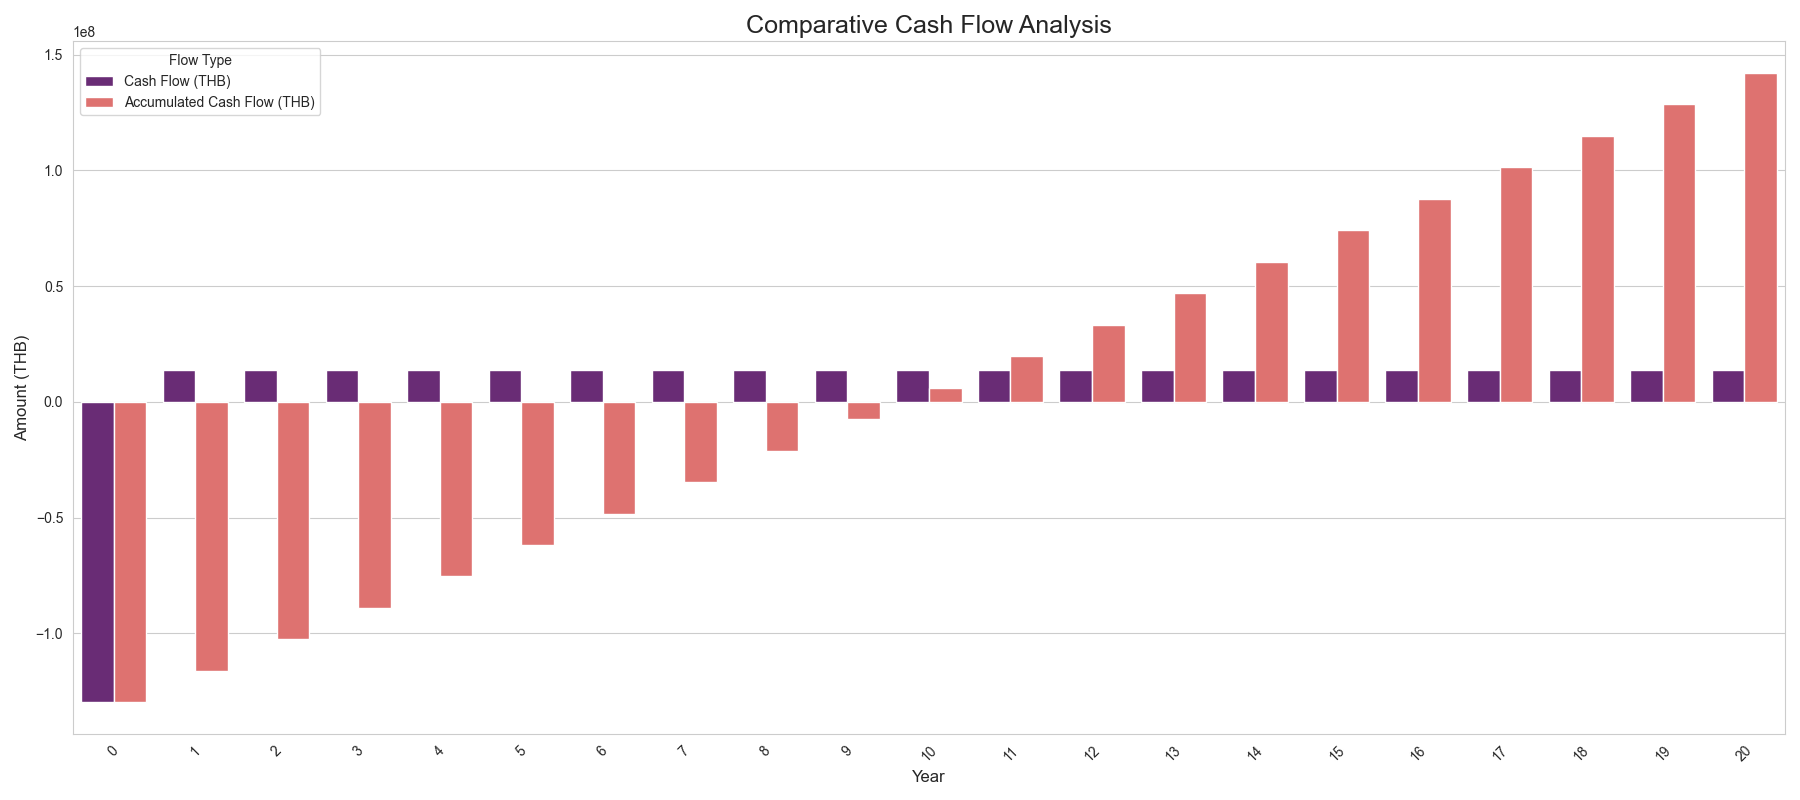
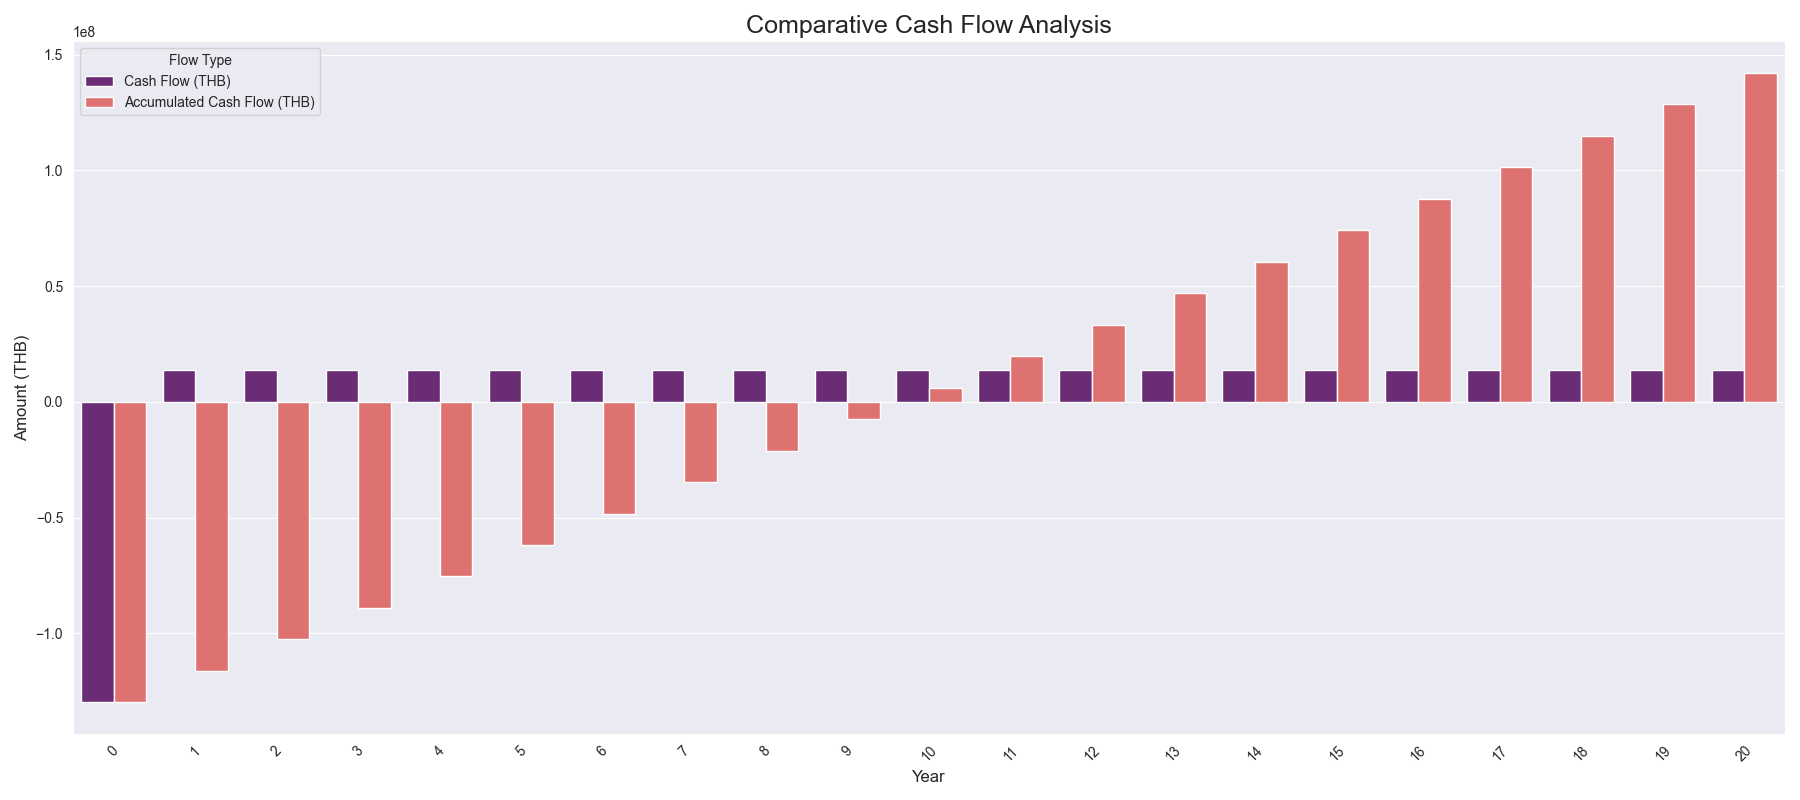
visualization-updates

diff --git a/visualization.py b/visualization.py
@@ -1,0 +1,64 @@
+import pandas as pd
+import matplotlib.pyplot as plt
+import seaborn as sns
+
+# Define the financial data for the 20-year loan repayment period
+years = list(range(0, 21))
+
+# Initial investment at year 0
+initial_investment = -129840000  # THB
+
+# Annual revenue and costs
+annual_revenue = 34000000  # THB
+annual_operating_cost = 0.6 * annual_revenue  # 60% of revenue
+
+# Calculate annual net cash flow after operating costs
+annual_net_cash_flow = annual_revenue - annual_operating_cost
+
+# Prepare cash flow list
+cash_flows = [initial_investment] + [annual_net_cash_flow] * 20
+
+# Calculate accumulated cash flow
+accumulated_cash_flow = []
+accum = 0
+for cf in cash_flows:
+    accum += cf
+    accumulated_cash_flow.append(accum)
+
+# Create DataFrame
+df = pd.DataFrame({
+    'Year': years,
+    'Cash Flow (THB)': cash_flows,
+    'Accumulated Cash Flow (THB)': accumulated_cash_flow
+})
+
+# Save to CSV
+csv_filename = 'ton_mai_spa_phuket_financial_projection.csv' # edit name for new file
+df.to_csv(csv_filename, index=False)
+
+# --- Visualization ---
+# Use a context manager for styling to ensure it's applied
+with sns.axes_style("darkgrid"):
+    # Reshape the DataFrame for comparative plotting
+    df_melted = df.melt(id_vars=['Year'], value_vars=['Cash Flow (THB)', 'Accumulated Cash Flow (THB)'],
+                        var_name='Flow Type', value_name='Amount (THB)')
+
+    # Create a figure and a set of subplots
+    plt.figure(figsize=(18, 8))
+
+    # Create the comparative bar chart
+    sns.barplot(x='Year', y='Amount (THB)', hue='Flow Type', data=df_melted, palette='magma')
+
+    plt.title('Comparative Cash Flow Analysis', fontsize=18)
+    plt.xlabel('Year', fontsize=12)
+    plt.ylabel('Amount (THB)', fontsize=12)
+    plt.xticks(rotation=45)
+    plt.tight_layout()
+
+    # Save the figure
+    plt.savefig('cash_flow_comparative_visualization.png')
+
+    # Show the plot
+    plt.show()
+
+print("Comparative visualization has been generated and saved as 'cash_flow_comparative_visualization.png'")

diff --git a/visualization_dark.py b/visualization_dark.py
@@ -37,7 +37,19 @@ csv_filename = 'ton_mai_spa_phuket_financial_projection.csv' # edit name for new
 df.to_csv(csv_filename, index=False)
 
 # --- Visualization ---
-sns.set_style("whitegrid")
+# Set the style to dark for the plot
+plt.style.use('dark_background')
+plt.rcParams.update({
+    "figure.facecolor":  (0.12, 0.12, 0.12, 1),
+    "axes.facecolor":    (0.12, 0.12, 0.12, 1),
+    "axes.edgecolor":    "white",
+    "axes.labelcolor":   "white",
+    "xtick.color":       "white",
+    "ytick.color":       "white",
+    "text.color":        "white",
+    "axes.titlecolor":   "white"
+})
+
 
 # Reshape the DataFrame for comparative plotting
 df_melted = df.melt(id_vars=['Year'], value_vars=['Cash Flow (THB)', 'Accumulated Cash Flow (THB)'],
@@ -56,9 +68,9 @@ plt.xticks(rotation=45)
 plt.tight_layout()
 
 # Save the figure
-plt.savefig('cash_flow_comparative_visualization.png')
+plt.savefig('cash_flow_comparative_visualization_dar.png')
 
 # Show the plot
 plt.show()
 
-print("Comparative visualization has been generated and saved as 'cash_flow_comparative_visualization.png'")
+print("Comparative visualization has been generated and saved as 'cash_flow_comparative_visualization_dar.png'")
